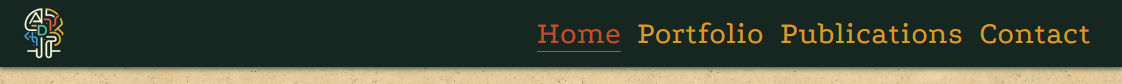
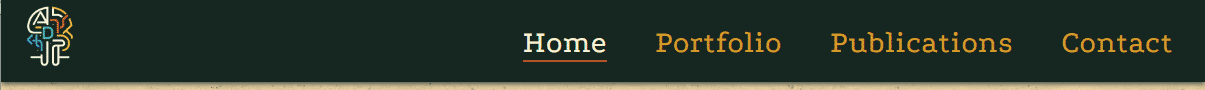
add updated images to readme.md

diff --git a/assets/css/style.css b/assets/css/style.css
@@ -667,7 +667,7 @@ footer {
 
     .menu a:hover {
         color: #9E9E7B;
-        border-bottom: 1px solid #9E9E7B;
+        border-bottom: 2px solid #9E9E7B;
     }
 
     /* Main */

diff --git a/README.md b/README.md
@@ -42,7 +42,7 @@ On screens sizes of tablet and below the page links are a dropdown menu, indicat
 #### Homepage
 The Scientist and Coder titles provide a succinct summary of who Anny Devoy is and immediately piques the interest of the site visitor.
 ![homepage](assets/readme/readme_homepage.png)
-There is a brief introduction paragraph to further introduce Anny and explain what she does and what she is about.
+There is a brief introduction paragraph to further introduce Anny and explain what she does and what she is about. This paragraph conndenses to just the first two sentences for small screens.
 
 This is followed by a very simple and clean layout of four thumbnail images for latest projects that link to the relevant sections in the portfolio page. The design has the thumbnails with drop shadow, to attract attention and create the impression they are hovering on the page and highlight they are individual elements.
 
@@ -50,7 +50,7 @@ This is followed by a very simple and clean layout of four thumbnail images for 
 This is the largest page. It showcases all 4 projects. 
 
 Each project has 3-4 images or video that best summarise the project. This is accompanied by one paragraph that provides a clear and succinct description of the project. Care is taken to not assume technical knowledge of the topic so that the information is accessible to everyone.
-![portfolio]()
+![portfolio](assets/readme/readme_portfolio.png)
 
 The Big Data and Neuroscience projects have youtube videos embedded that help summarise the information presented.
 
@@ -67,7 +67,7 @@ On smaller screens the authors list is contracted to just the first four authors
 
 #### Contact
 The purpose of this page is to allow the visitor to contact Anny Devoy.
-![contact]()
+![contact](assets/readme/readme_contact.png)
 The main feature of this page is a contact form, where the user inputs name, email and company as well as the message. 
 
 The contact form takes half the page, with the other half taken up with a dramatic image of a motor neuron imaged by electron microscopy – providing a visual link to other pages. As screen sizes decrease the form stacks on itself and then at mobile screen size the image stacks above the form.
